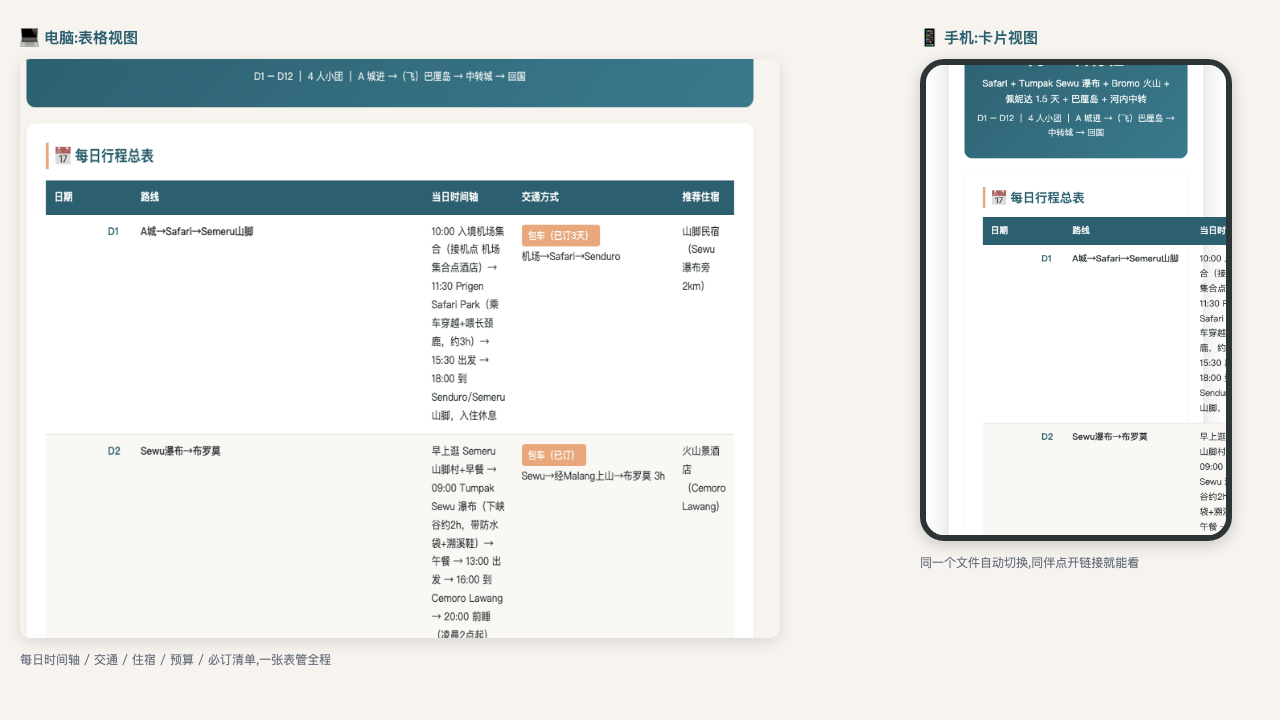
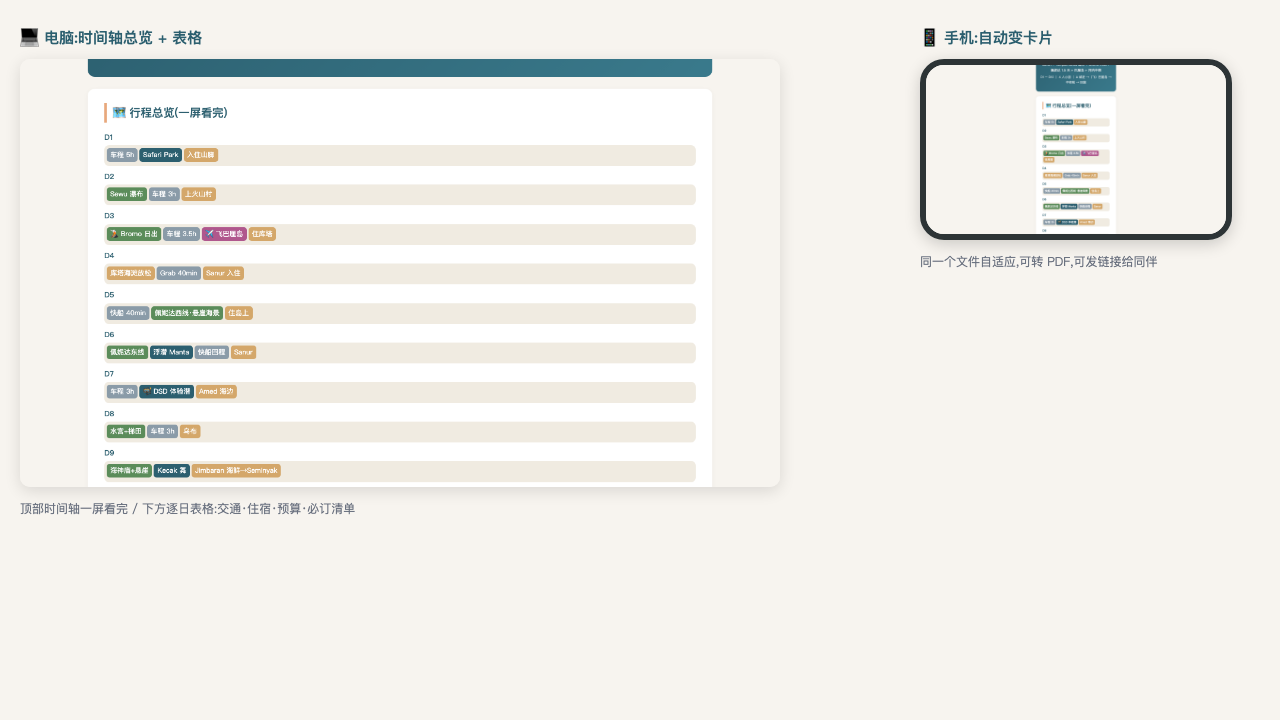
feat: 交付物可视化升级——时间轴总览 + PDF 直出
- itinerary HTML 顶部新增「行程总览」区块:每天一行、活动色块分段
  (自然/活动/休闲/在途/飞行五色+图例),一屏看完 12 天结构
- SKILL.md Phase 4 硬性要求:交付物必须含时间轴总览,减轻文字阅读压力;
  新增 PDF 导出规范(agent-browser pdf 一条命令直出,已实测 1.2M 输出)
- 更新 docs/deliverable-preview.png 预览图(含时间轴)

diff --git a/itinerary/bali-2026/index.html b/itinerary/bali-2026/index.html
@@ -93,6 +93,19 @@
   .transport.gray { background: #6b7280; }
   .status-done { color: #15803d; background: #dcfce7; padding: 2px 8px; border-radius: 4px; font-size: 12.5px; font-weight: 600; white-space: nowrap; }
   .status-todo { color: #c2410c; background: #ffedd5; padding: 2px 8px; border-radius: 4px; font-size: 12.5px; font-weight: 600; white-space: nowrap; }
+  /* ── 顶部时间轴总览 ── */
+  .tl-row { margin-bottom: 7px; }
+  .tl-day { font-size: 12.5px; font-weight: 700; color: #2c5f6f; }
+  .tl-track { margin-top: 3px; background: #f0ebe1; border-radius: 8px; padding: 4px; }
+  .tl-seg { display: inline-block; padding: 4px 6px; border-radius: 5px; margin: 1px 3px 1px 0; font-size: 11.5px; color: #fff; line-height: 1.3; vertical-align: top; }
+  .tl-seg.transit { background: #8a9ba8; }
+  .tl-seg.nature { background: #5b8c5a; }
+  .tl-seg.activity { background: #2c5f6f; }
+  .tl-seg.relax { background: #d4a76a; }
+  .tl-seg.flight { background: #b0578d; }
+  .tl-legend { margin-top: 10px; font-size: 12px; color: #6b7280; }
+  .tl-legend span { display: inline-block; margin-right: 14px; }
+  .tl-dot { display: inline-block; width: 9px; height: 9px; border-radius: 2px; margin-right: 4px; vertical-align: middle; }
   ul { padding-left: 18px; margin: 8px 0; }
   li { margin-bottom: 6px; font-size: 14px; }
   .alert {
@@ -154,6 +167,43 @@
   <div class="subtitle">Safari + Tumpak Sewu 瀑布 + Bromo 火山 + 佩妮达 1.5 天 + 巴厘岛 + 河内中转</div>
   <div class="meta">D1 – D12 ｜ 4 人小团 ｜ A 城进 →（飞）巴厘岛 → 中转城 → 回国</div>
 </header>
+
+<section>
+  <h2>🗺 行程总览(一屏看完)</h2>
+  <div class="timeline">
+    <div class="tl-row"><div class="tl-day">D1</div><div class="tl-track">
+      <span class="tl-seg transit">车程 5h</span><span class="tl-seg activity">Safari Park</span><span class="tl-seg relax">入住山脚</span></div></div>
+    <div class="tl-row"><div class="tl-day">D2</div><div class="tl-track">
+      <span class="tl-seg nature">Sewu 瀑布</span><span class="tl-seg transit">车程 3h</span><span class="tl-seg relax">上火山村</span></div></div>
+    <div class="tl-row"><div class="tl-day">D3</div><div class="tl-track">
+      <span class="tl-seg nature">🌋 Bromo 日出</span><span class="tl-seg transit">车程 3.5h</span><span class="tl-seg flight">✈ 飞巴厘岛</span><span class="tl-seg relax">住库塔</span></div></div>
+    <div class="tl-row"><div class="tl-day">D4</div><div class="tl-track">
+      <span class="tl-seg relax">库塔海滩放松</span><span class="tl-seg transit">Grab 40min</span><span class="tl-seg relax">Sanur 入住</span></div></div>
+    <div class="tl-row"><div class="tl-day">D5</div><div class="tl-track">
+      <span class="tl-seg transit">快船 40min</span><span class="tl-seg nature">佩妮达西线·悬崖海景</span><span class="tl-seg relax">住岛上</span></div></div>
+    <div class="tl-row"><div class="tl-day">D6</div><div class="tl-track">
+      <span class="tl-seg nature">佩妮达东线</span><span class="tl-seg activity">浮潜 Manta</span><span class="tl-seg transit">快船回程</span><span class="tl-seg relax">Sanur</span></div></div>
+    <div class="tl-row"><div class="tl-day">D7</div><div class="tl-track">
+      <span class="tl-seg transit">车程 3h</span><span class="tl-seg activity">🤿 DSD 体验潜</span><span class="tl-seg relax">Amed 海边</span></div></div>
+    <div class="tl-row"><div class="tl-day">D8</div><div class="tl-track">
+      <span class="tl-seg nature">水宫+梯田</span><span class="tl-seg transit">车程 3h</span><span class="tl-seg relax">乌布</span></div></div>
+    <div class="tl-row"><div class="tl-day">D9</div><div class="tl-track">
+      <span class="tl-seg nature">海神庙+悬崖</span><span class="tl-seg activity">Kecak 舞</span><span class="tl-seg relax">Jimbaran 海鲜→Seminyak</span></div></div>
+    <div class="tl-row"><div class="tl-day">D10</div><div class="tl-track">
+      <span class="tl-seg relax">Seminyak 逛街</span><span class="tl-seg activity">Canggu beach club</span><span class="tl-seg relax">看日落</span></div></div>
+    <div class="tl-row"><div class="tl-day">D11</div><div class="tl-track">
+      <span class="tl-seg transit">赴机场</span><span class="tl-seg flight">✈ 飞中转城</span><span class="tl-seg relax">入住</span></div></div>
+    <div class="tl-row"><div class="tl-day">D12</div><div class="tl-track">
+      <span class="tl-seg activity">中转城老城一日游</span><span class="tl-seg flight">✈ 晚班机回国</span></div></div>
+    <div class="tl-legend">
+      <span><i class="tl-dot" style="background:#5b8c5a"></i>自然观光</span>
+      <span><i class="tl-dot" style="background:#2c5f6f"></i>体验活动</span>
+      <span><i class="tl-dot" style="background:#d4a76a"></i>休闲/住宿</span>
+      <span><i class="tl-dot" style="background:#8a9ba8"></i>在途</span>
+      <span><i class="tl-dot" style="background:#b0578d"></i>飞行</span>
+    </div>
+  </div>
+</section>
 
 <section>
   <h2>📅 每日行程总表</h2>

diff --git a/agent/SKILL.md b/agent/SKILL.md
@@ -56,9 +56,11 @@ description: 行程规划 Agent。用户提供时间段和候选目的地后,结
 ### Phase 4 — 交付
 
 - 最终版整理为**单文件响应式 HTML**(零依赖):
-  - 桌面 ≥768px 用表格;移动端表格转卡片(`data-label` + CSS)
+  - **顶部必须有时间轴总览区**:每天一行,活动用色块分段(自然观光/体验活动/休闲住宿/在途/飞行五色+图例)——让用户先看图建立全局感,再下钻逐日详情;**减轻文字阅读压力是硬性要求**
+  - 逐日详情:桌面 ≥768px 用表格;移动端表格转卡片(`data-label` + CSS)
   - 避免非必要现代特性(不用 CSS 变量、flex/grid——兼容旧内核浏览器)
   - 含打印优化(`@media print`)
+- **PDF 导出(用户要时直接做)**:`agent-browser open "file:///<行程>.html" && agent-browser pdf <行程>.pdf`,无需用户手动打印
 - 托管:引导用户用 Netlify Drop 等静态托管,保留固定 URL
 
 ### Phase 5 — 出发前优化(行程临近时)
